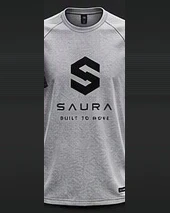
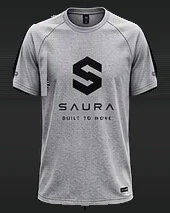
English product names, rebuilt tee photos, smaller cards
- English site shows English design names (Montaña Tee -> Mountain Tee);
  the Spanish site keeps the originals
- Overlapping men's and women's tee photos rebuilt with both sleeves
  (mirrored or borrowed) and cut to a clean outline
- Product cards 5 per row on desktop; product page photo capped at 420px

diff --git a/js/products.js b/js/products.js
@@ -45,6 +45,17 @@ const DESIGN_NAMES = {
   dinamico: "Dinámico", minimalista: "Minimalista", monograma: "Monograma", organico: "Orgánico",
   tipografico: "Tipográfico", geometrico: "Geométrico", montana: "Montaña", circulo: "Círculo", abstracto: "Abstracto",
 };
+// The same design names in English, used when the site is in English
+const DESIGN_NAMES_EN = {
+  dinamico: "Dynamic", minimalista: "Minimalist", monograma: "Monogram", organico: "Organic",
+  tipografico: "Typographic", geometrico: "Geometric", montana: "Mountain", circulo: "Circle", abstracto: "Abstract",
+};
+// Product name in the current language: "Montaña Tee" stays as written in Spanish,
+// and becomes "Mountain Tee" in English
+const displayName = (p) =>
+  SauraI18n.lang === "en" && DESIGN_NAMES_EN[p.design]
+    ? p.name.replace(DESIGN_NAMES[p.design], DESIGN_NAMES_EN[p.design])
+    : p.name;
 const designLine = (gender, type, label, price, colours) =>
   colours.map((colour, i) => {
     const design = Object.keys(DESIGN_NAMES)[i];
@@ -141,7 +152,7 @@ const garment = (type) => `<svg viewBox="0 0 100 100" aria-hidden="true">${GARME
 // garment outline (main) and the outline marked "2" (hover).
 function productMedia(p) {
   const photo = imageFor(p, p.colour);
-  const main = photo ? `<img src="${photo}" alt="${p.name}" loading="lazy">` : garment(p.type);
+  const main = photo ? `<img src="${photo}" alt="${displayName(p)}" loading="lazy">` : garment(p.type);
   const alt = p.image2
     ? `<img src="${p.image2}" alt="" loading="lazy">`
     : `${garment(p.type)}<span class="media-alt-mark">2</span>`;
@@ -159,7 +170,7 @@ function productCard(p) {
         ${p.tag ? `<span class="product-tag">${t(`tag.${p.tag}`)}</span>` : ""}
       </div>
       <div class="product-info">
-        <h3 class="product-name">${p.name}</h3>
+        <h3 class="product-name">${displayName(p)}</h3>
         <p class="product-meta">${t(`gender.${p.gender}`)} · ${p.variants
           ? t("product.colours", { n: coloursOf(p).length })
           : t(`colour.${p.colour}`)}</p>
@@ -277,7 +288,7 @@ function initProductPage(root) {
       return;
     }
     const p = product;
-    document.title = `${p.name} — Saura`;
+    document.title = `${displayName(p)} — Saura`;
     // Related products: for now, the other products of the same type in the same collection
     const related = PRODUCTS.filter((x) => x.type === p.type && x.gender === p.gender && x.id !== p.id);
 
@@ -285,17 +296,17 @@ function initProductPage(root) {
       <nav class="breadcrumb" aria-label="Breadcrumb">
         <a href="products.html">${t("pd.crumb")}</a><span aria-hidden="true">/</span>
         <a href="products.html?type=${p.type}">${t(`type.${p.type}`)}</a><span aria-hidden="true">/</span>
-        <span aria-current="page">${p.name}</span>
+        <span aria-current="page">${displayName(p)}</span>
       </nav>
 
       <div class="pd-layout">
         <div class="pd-photo">
-          ${imageFor(p, colour) ? `<img src="${imageFor(p, colour)}" alt="${p.name} — ${t(`colour.${colour}`)}">` : garment(p.type)}
+          ${imageFor(p, colour) ? `<img src="${imageFor(p, colour)}" alt="${displayName(p)} — ${t(`colour.${colour}`)}">` : garment(p.type)}
         </div>
 
         <div class="pd-details">
           <p class="eyebrow">${t(`typeOne.${p.type}`)} · ${t(`gender.${p.gender}`)}</p>
-          <h1 class="pd-title">${p.name}</h1>
+          <h1 class="pd-title">${displayName(p)}</h1>
           <p class="pd-tagline">${DESIGNS[p.design]}</p>
           <p class="pd-price">${formatPrice(p.price)}</p>
 
@@ -343,7 +354,7 @@ function initProductPage(root) {
       if (p.variants) {
         const img = root.querySelector(".pd-photo img");
         img.src = imageFor(p, colour);
-        img.alt = `${p.name} — ${t(`colour.${colour}`)}`;
+        img.alt = `${displayName(p)} — ${t(`colour.${colour}`)}`;
         // Keep the colour in the URL so the link can be shared
         const query = new URLSearchParams(location.search);
         query.set("colour", colour);

diff --git a/css/styles.css b/css/styles.css
@@ -549,7 +549,7 @@ p { margin: 0 0 1rem; }
 
 /* Native horizontal scrolling with snap points: swipeable on touch, buttons on desktop */
 .carousel-track {
-  --per-view: 4;
+  --per-view: 5;
   --gap: 1.25rem;
   display: grid;
   grid-auto-flow: column;
@@ -734,8 +734,8 @@ p { margin: 0 0 1rem; }
 
 .product-grid {
   display: grid;
-  grid-template-columns: repeat(4, 1fr);
-  gap: 2.5rem 1.25rem;
+  grid-template-columns: repeat(5, 1fr);
+  gap: 2rem 1rem;
 }
 .catalogue-empty {
   grid-column: 1 / -1;
@@ -764,7 +764,7 @@ p { margin: 0 0 1rem; }
 
 .pd-layout {
   display: grid;
-  grid-template-columns: minmax(0, 1.1fr) minmax(0, 1fr);
+  grid-template-columns: minmax(0, 420px) minmax(0, 1fr);   /* photo column capped at 420px */
   gap: clamp(2rem, 5vw, 4rem);
   align-items: start;
 }
@@ -998,8 +998,8 @@ p { margin: 0 0 1rem; }
   .contact-grid { grid-template-columns: 1fr; }
   .contact-cta { min-height: 16rem; }
   .contact-cta-email { font-size: 3.6vw; }
-  .carousel-track { --per-view: 2.4; }
-  .product-grid { grid-template-columns: repeat(3, 1fr); }
+  .carousel-track { --per-view: 3.3; }
+  .product-grid { grid-template-columns: repeat(4, 1fr); }
 }
 
 @media (max-width: 760px) {
@@ -1032,8 +1032,8 @@ p { margin: 0 0 1rem; }
   .hero-stripe:nth-child(2) { right: -4vw; top: calc(14% + 4vw); }
   .hero-word { display: none; }
 
-  .carousel-track { --per-view: 1.6; --gap: 1rem; }
-  .product-grid { grid-template-columns: repeat(2, 1fr); gap: 2rem 1rem; }
+  .carousel-track { --per-view: 2.4; --gap: 0.75rem; }
+  .product-grid { grid-template-columns: repeat(3, 1fr); gap: 1.75rem 0.75rem; }
   .page-hero::after { right: -6vw; width: 26vw; height: 26vw; opacity: 0.6; }
   .page-title { max-width: none; }
 
@@ -1043,6 +1043,7 @@ p { margin: 0 0 1rem; }
   .nav-toggle { order: 2; }
 
   .pd-layout { grid-template-columns: 1fr; }
+  .pd-photo { width: 100%; max-width: 360px; margin: 0 auto; }
   .pd-details { position: static; }
 }
 
@@ -1052,6 +1053,8 @@ p { margin: 0 0 1rem; }
 
   .carousel-link { margin-right: 0.25rem; }
   .carousel-link::before { content: none; }
+  .carousel-track { --per-view: 1.9; }
+  .product-grid { grid-template-columns: repeat(2, 1fr); }
   .product-name { font-size: 0.85rem; }
   .filter-group,
   .catalogue-tools { flex: 1 1 100%; }

diff --git a/js/cart.js b/js/cart.js
@@ -91,10 +91,10 @@ const SauraCart = (() => {
           <li class="cart-item">
             <a href="${link}" class="cart-thumb">${photo ? `<img src="${photo}" alt="">` : garment(p.type)}</a>
             <div>
-              <a href="${link}" class="cart-item-name">${p.name}</a>
+              <a href="${link}" class="cart-item-name">${displayName(p)}</a>
               <p class="cart-item-meta">${t(`colour.${item.colour}`)} · ${item.qty} × ${formatPrice(p.price)}</p>
             </div>
-            <button type="button" class="cart-remove" data-index="${i}" aria-label="${t("cart.remove", { name: p.name })}">×</button>
+            <button type="button" class="cart-remove" data-index="${i}" aria-label="${t("cart.remove", { name: displayName(p) })}">×</button>
           </li>`;
         }).join("")}
       </ul>
